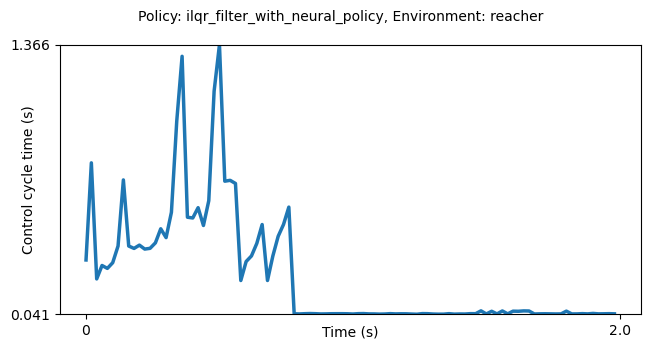
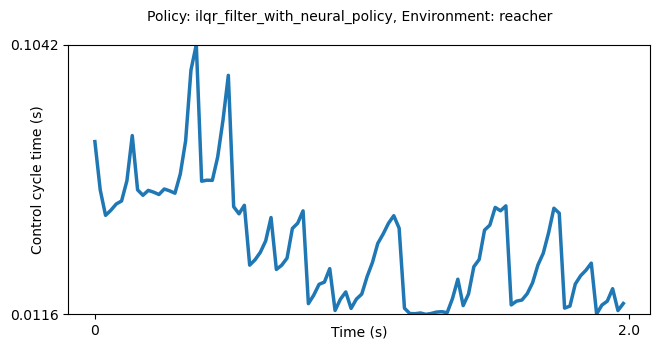
Stack pytrees (#8)
* use tree utils to do jax vmap

* update process times

* updates to ant figures

* updates

* remove commented code

* update reacher config

* increasing rollout length

* ant updates

diff --git a/brax_utils/policy/brax_ilqr_policy.py b/brax_utils/policy/brax_ilqr_policy.py
@@ -48,7 +48,7 @@ class iLQRBrax(BasePolicy):
             controls = jnp.array(controls)
 
         # Rolls out the nominal trajectory and gets the initial cost.
-        gc_states, controls, fx, fu = self.rollout_nominal(
+        gc_states, controls, pipeline_states = self.rollout_nominal(
             initial_state, controls
         )
         J = self.cost.get_traj_cost(gc_states, controls)
@@ -61,12 +61,14 @@ class iLQRBrax(BasePolicy):
             # jacobian from 0 to N-2.
             c_x, c_u, c_xx, c_uu, c_ux = self.cost.get_derivatives(
                 gc_states, controls)
+            fx, fu = self.brax_env.get_batched_generalized_coordinates_grad(pipeline_states, controls)
+
             K_closed_loop, k_open_loop = self.backward_pass(
                 c_x=c_x, c_u=c_u, c_xx=c_xx, c_uu=c_uu, c_ux=c_ux, fx=fx, fu=fu
             )
             updated = False
             for alpha in self.alphas:
-                X_new, U_new, fx, fu, J_new = self.forward_pass(
+                X_new, U_new, pipeline_states_new, J_new = self.forward_pass(
                     initial_state, gc_states, controls, K_closed_loop, k_open_loop, alpha
                 )
 
@@ -79,6 +81,7 @@ class iLQRBrax(BasePolicy):
                     J = J_new
                     gc_states = X_new
                     controls = U_new
+                    pipeline_states = pipeline_states_new
                     updated = True
                     break
 
@@ -113,11 +116,11 @@ class iLQRBrax(BasePolicy):
         # We seperate the rollout and cost explicitly since get_cost might rely on
         # other information, such as env parameters (track), and is difficult for
         # jax to differentiate.
-        X, U, fx, fu = self.rollout(
+        X, U, pipeline_states = self.rollout(
             initial_state, nominal_gc_states, nominal_controls, K_closed_loop, k_open_loop, alpha
         )
         J = self.cost.get_traj_cost(X, U)
-        return X, U, fx, fu, J
+        return X, U, pipeline_states, J
 
     @partial(jax.jit, static_argnames='self')
     def rollout(
@@ -127,7 +130,7 @@ class iLQRBrax(BasePolicy):
 
         @jax.jit
         def _rollout_step(i, args):
-            X, U, fx, fu, state_prev = args
+            X, U, state_prev, pipeline_states = args
             u_fb = jnp.einsum(
                 "ik,k->i", K_closed_loop[:, :,
                                          i], (X[:, i] - nominal_gc_states[:, i])
@@ -138,18 +141,20 @@ class iLQRBrax(BasePolicy):
             state_grad, action_grad = self.brax_env.get_generalized_coordinates_grad(state_prev, u)
             X = X.at[:, i + 1].set(self.brax_env.get_generalized_coordinates(state_nxt))
             U = U.at[:, i].set(u_clip)
-            fx = fx.at[:, :, i].set(state_grad)
-            fu = fu.at[:, :, i].set(action_grad)
-            return X, U, fx, fu, state_nxt
+            pipeline_states = jax.tree.map(lambda xs, ys: xs.at[..., i + 1].set(ys), pipeline_states, state_nxt)
+
+            return X, U, state_nxt, pipeline_states
 
         X = jnp.zeros((self.dim_x, self.N))
         fx = jnp.zeros((self.dim_x, self.dim_x, self.N))
         fu = jnp.zeros((self.dim_x, self.dim_u, self.N))
         U = jnp.zeros((self.dim_u, self.N))  # Assumes the last ctrl are zeros.
         X = X.at[:, 0].set(nominal_gc_states[:, 0])
+        state_expanded = jax.tree.map(lambda xs: jnp.expand_dims(xs, axis=-1), initial_state)
+        pipeline_states = jax.tree.map(lambda xs: jnp.repeat(xs, self.N, axis=-1), state_expanded)
 
-        X, U, fx, fu, _ = jax.lax.fori_loop(0, self.N, _rollout_step, (X, U, fx, fu, initial_state))
-        return X, U, fx, fu
+        X, U, _, pipeline_states = jax.lax.fori_loop(0, self.N - 1, _rollout_step, (X, U, initial_state, pipeline_states))
+        return X, U, pipeline_states
 
     @partial(jax.jit, static_argnames='self')
     def rollout_nominal(
@@ -158,24 +163,27 @@ class iLQRBrax(BasePolicy):
 
         @jax.jit
         def _rollout_nominal_step(i, args):
-            X, U, fx, fu, state_prev = args
+            X, U, state_prev, pipeline_states = args
             u_clip = jnp.clip(U[:, i], min=self.brax_env.action_limits[0], max=self.brax_env.action_limits[1])
             state_nxt = self.brax_env.step(state_prev, u_clip)
             state_grad, action_grad = self.brax_env.get_generalized_coordinates_grad(state_prev, U[:, i])
             X = X.at[:, i + 1].set(self.brax_env.get_generalized_coordinates(state_nxt))
             U = U.at[:, i].set(u_clip)
-            fx = fx.at[:, :, i].set(state_grad)
-            fu = fu.at[:, :, i].set(action_grad)
-            return X, U, fx, fu, state_nxt
+            pipeline_states = jax.tree.map(lambda xs, ys: xs.at[..., i + 1].set(ys), pipeline_states, state_nxt)
+
+            return X, U, state_nxt, pipeline_states
 
         X = jnp.zeros((self.dim_x, self.N))
         fx = jnp.zeros((self.dim_x, self.dim_x, self.N))
         fu = jnp.zeros((self.dim_x, self.dim_u, self.N))
         X = X.at[:, 0].set(self.brax_env.get_generalized_coordinates(state))
-        X, U, fx, fu, _ = jax.lax.fori_loop(
-            0, self.N - 1, _rollout_nominal_step, (X, controls, fx, fu, state)
+        state_expanded = jax.tree.map(lambda xs: jnp.expand_dims(xs, axis=-1), state)
+        pipeline_states = jax.tree.map(lambda xs: jnp.repeat(xs, self.N, axis=-1), state_expanded)
+
+        X, U, _, pipeline_states = jax.lax.fori_loop(
+            0, self.N - 1, _rollout_nominal_step, (X, controls, state, pipeline_states)
         )
-        return X, U, fx, fu
+        return X, U, pipeline_states
 
     @partial(jax.jit, static_argnames='self')
     def backward_pass(

diff --git a/brax_utils/policy/brax_ilqr_reachability_policy.py b/brax_utils/policy/brax_ilqr_reachability_policy.py
@@ -24,7 +24,7 @@ class iLQRBraxReachability(iLQRBrax):
         controls = jnp.array(controls_np)
 
     # Rolls out the nominal trajectory and gets the initial cost.
-    gc_states, controls, fx, fu = self.rollout_nominal(
+    gc_states, controls, pipeline_states = self.rollout_nominal(
         initial_state, controls
     )
 
@@ -44,6 +44,7 @@ class iLQRBraxReachability(iLQRBrax):
       c_x, c_u, c_xx, c_uu, c_ux = self.cost.get_derivatives(
           gc_states, controls
       )
+      fx, fu = self.brax_env.get_batched_generalized_coordinates_grad(pipeline_states, controls)
       V_x, V_xx, k_open_loop, K_closed_loop, _, _ = self.backward_pass(
           c_x=c_x, c_u=c_u, c_xx=c_xx, c_uu=c_uu, c_ux=c_ux, fx=fx, fu=fu,
           critical=critical, failure_margins=failure_margins
@@ -52,7 +53,7 @@ class iLQRBraxReachability(iLQRBrax):
       # Choose the best alpha scaling using appropriate line search methods
       alpha_chosen = self.baseline_line_search(initial_state, gc_states, controls, K_closed_loop, k_open_loop, J)
       
-      gc_states, controls, fx, fu, J_new, critical, failure_margins, reachable_margin = self.forward_pass(initial_state, gc_states, controls, K_closed_loop, k_open_loop, alpha_chosen) 
+      gc_states, controls, pipeline_states, J_new, critical, failure_margins, reachable_margin = self.forward_pass(initial_state, gc_states, controls, K_closed_loop, k_open_loop, alpha_chosen) 
       if (np.abs((J-J_new) / J) < self.tol):  # Small improvement.
         status = 1
         if J_new>0:
@@ -88,7 +89,7 @@ class iLQRBraxReachability(iLQRBrax):
     def run_forward_pass(args):
       alpha, J, J_new = args
       alpha = beta*alpha
-      _, _, _, _, J_new, _, _, _ = self.forward_pass(initial_state, gc_states, controls, K_closed_loop, k_open_loop, alpha)
+      _, _, _, J_new, _, _, _ = self.forward_pass(initial_state, gc_states, controls, K_closed_loop, k_open_loop, alpha)
       return alpha, J, J_new
 
     @jax.jit
@@ -140,7 +141,7 @@ class iLQRBraxReachability(iLQRBrax):
       K_closed_loop: DeviceArray, k_open_loop: DeviceArray, alpha: float
   ) -> Tuple[DeviceArray, DeviceArray, float, DeviceArray, DeviceArray,
              DeviceArray]:
-    X, U, fx, fu = self.rollout(
+    X, U, pipeline_states = self.rollout(
         initial_state, nominal_gc_states, nominal_controls, K_closed_loop, k_open_loop, alpha
     )
 
@@ -150,7 +151,7 @@ class iLQRBraxReachability(iLQRBrax):
 
     critical, reachable_margin = self.get_critical_points(failure_margins)
     J = (reachable_margin + jnp.sum(ctrl_costs)).astype(float)
-    return X, U, fx, fu, J, critical, failure_margins, reachable_margin
+    return X, U, pipeline_states, J, critical, failure_margins, reachable_margin
 
   @partial(jax.jit, static_argnames='self')
   def backward_pass(

diff --git a/brax_utils/wrapped_env/wrapper_env.py b/brax_utils/wrapped_env/wrapper_env.py
@@ -73,6 +73,15 @@ class WrappedBraxEnv(ABC):
         return f_xx, f_ux, hess_uu
 
     @partial(jax.jit, static_argnames=['self'])
+    def get_batched_generalized_coordinates_grad(self, nominal_states, nominal_actions):
+        jac = jax.jit(
+            jax.vmap(
+                self.get_generalized_coordinates_grad, in_axes=(
+                    -1, -1), out_axes=(
+                    2, 2)))
+        return jac(nominal_states, nominal_actions)
+
+    @partial(jax.jit, static_argnames=['self'])
     def get_obs_grad(self, pipeline_state):
         state_grad = jax.jacobian(self._get_obs, argnums=0)(pipeline_state)
         return jnp.concatenate([state_grad.q[..., 0:self.dim_q_states], state_grad.qd[..., 0:self.dim_qd_states], state_grad.qdd[..., 0:self.dim_qdd_states]], axis=-1)
